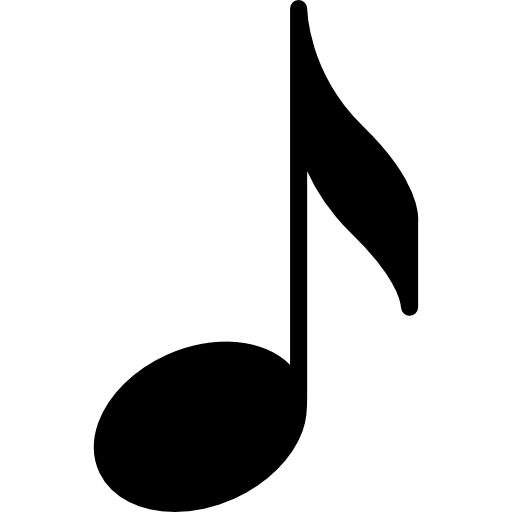
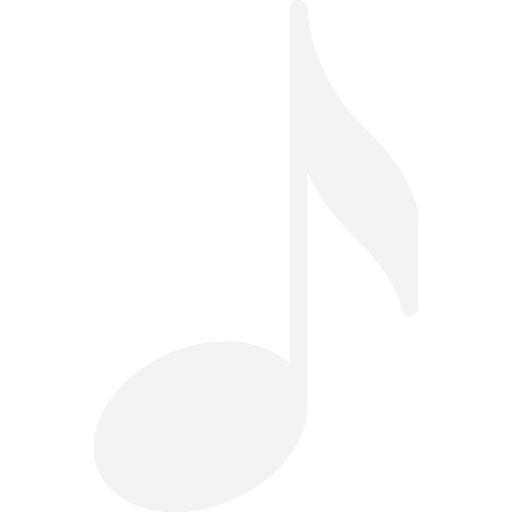
Change theme feito.

Changed region(s): [[0.1562, 0.0, 0.8438, 1.0]]

diff --git a/style.css b/style.css
@@ -1,19 +1,22 @@
 @import url('https://fonts.googleapis.com/css2?family=Pompiere&display=swap');
 
-
+:root{
+    --fonte: #fff;
+    --fundoGeral:#2F2929;
+    --fundoCabecalho:#44362D;
+    --destaque:#D16E26;
+    --fundoInput:rgba(255, 255, 255, 0.04);
+    --sustenido:#2F2929;
+    --fundoBotao:rgba(255, 255, 255, 0.04);
+    
+}
 
 body,
 html {
     margin: 0;
     padding: 0;
     height: 170vh;
-    background-color: #2F2929;
-}
-
-/* ícone de menu */
-.hamburguerList {
-    margin-left: 2vw;
-    color: #fff;
+    background-color: var(--fundoGeral);
 }
 
 .divTitulo {
@@ -25,7 +28,7 @@ html {
 .h1Nome {
     margin-top: 6vh;
     text-align: center;
-    color: #D16E26;
+    color: var(--destaque);
     font-size: 3.5rem;
     font-weight: lighter;
     font-family: 'Pompiere', cursive;
@@ -33,14 +36,12 @@ html {
 
 /* Imagem da nota musical */
 .imagemH1 {
-    filter: invert();
     width: 30px;
     height: 40px;
     transform: rotate(-25deg);
 }
 
 .imagemH1Dois {
-    filter: invert();
     width: 30px;
     height: 40px;
     transform: scaleX(-1) rotate(-25deg);
@@ -57,9 +58,9 @@ html {
     width: 3.7vw;
     height: 7.7vh;
     border-radius: 1rem;
-    border: 2px solid #D16E26;
-    color: white;
-    background-color: rgba(255, 255, 255, 0.04);
+    border: 2px solid var(--destaque);
+    color: var(--fonte);
+    background-color: var(--fundoInput);
 }
 
 
@@ -68,7 +69,7 @@ html {
     height: 5.6vh;
     width: 2.8vw;
     border-radius: 0.7rem;
-    background-color: rgba(255, 255, 255, 0.04);
+    background-color: var(--fundoInput);
 }
 
 .comparacao {
@@ -79,7 +80,7 @@ html {
     display: flex;
     align-items: center;
     font-size: 3rem;
-    color: white;
+    color: var(--fonte);
 }
 
 .conjuntoInputAcorde {
@@ -94,9 +95,9 @@ html {
     width: 14vw;
     height: 7.7vh;
     border-radius: 1em;
-    border: 2px solid #D16E26;
-    color: white;
-    background-color: rgba(255, 255, 255, 0.04);
+    border: 2px solid var(--destaque);
+    color: var(--fonte);
+    background-color: var(--fundoInput);
 
 }
 
@@ -120,12 +121,12 @@ select {
     width: 18vw;
     padding: 3vh;
     border-radius: 10rem;
-    border: 2px solid #D16E26;
+    border: 2px solid var(--destaque);
     cursor: pointer;
     font-family: 'Pompiere', cursive;
     color: #fff;
     font-size: 1.8rem;
-    background-color: rgba(255, 255, 255, 0.04);
+    background-color: var(--fundoBotao);
 
 }
 
@@ -146,15 +147,15 @@ select {
     margin-top: 18vh;
     display: flex;
     align-items: center;
-    border: 2px solid #D16E26;
-    background-color: rgba(255, 255, 255, 0.04);
+    border: 2px solid var(--destaque);
+    background-color: var(--fundoInput);
 }
 
 .nota {
     width: 9.8vw;
     height: 43vh;
     background-color: rgba(255, 255, 255, 0.7);
-    border: 1px solid #2F2929;
+    border: 1px solid var(--fundoGeral);
     border-radius: 0.7rem;
     margin-left: 1px;
     display: flex;
@@ -164,13 +165,13 @@ select {
 }
 
 option {
-    background-color: #2F2929;
+    background-color: var(--fundoGeral);
 }
 
 .sustenido {
     width: 4.65vw;
     height: 29.4vh;
-    background-color: #2F2929;
+    background-color: var(--sustenido);
     border-radius: 0 0 0.6rem 0.6rem;
     margin: 0 -1.25vw 0 -1.25vw;
     margin-bottom: 17.5vh;
@@ -194,24 +195,24 @@ option {
 }
 
 .popup {
-    background-color: rgb(58, 51, 46);
+    background-color: var(--fundoGeral);
     width: 50vw;
     height: 90vh;
     display: block;
     border-radius: 1rem;
     border: 1px solid rgba(255, 255, 255, 0.658);
-    color: white;
+    color: var(--fonte);
     animation: animacaoPopup 0.3s ease-in-out;
     position: fixed;
 }
 
 .popupFechar {
-    background-color: rgb(58, 51, 46);
+    background-color: var(--fundoGeral);
     height: 90vh;
     width: 50vw;
     border-radius: 1rem;
     border: 1px solid rgba(255, 255, 255, 0.658);
-    color: white;
+    color: var(--fonte);
     animation: animacaoPopupSair 0.3s ease-in-out;
     position: fixed;
 }
@@ -222,7 +223,7 @@ option {
     display: none;
     align-items: center;
     justify-content: center;
-    color: #D16E26;
+    color: var(--destaque);
     font-size: xx-large;
     font-family: 'Pompiere';
     font-family: cursive;
@@ -273,7 +274,7 @@ option {
     position: absolute;
     background-color: rgba(0, 0, 0, 0);
     border: 0;
-    color: white;
+    color: var(--fonte);
     right: 0.8vw;
     top: 2vh;
     font-size: large;
@@ -291,7 +292,7 @@ option {
 }
 
 span {
-    color: #D16E26;
+    color: var(--destaque);
 }
 
 /* Conjunto do Popup */
@@ -300,7 +301,7 @@ span {
     width: 100%;
     height: 42vh;
     margin-top: 40vh;
-    background-color: #44362D;
+    background-color: var(--fundoCabecalho);
     color: white;
 
 }
@@ -354,9 +355,17 @@ span {
 .cabecalho {
     display: flex;
     align-items: center;
+    justify-content: space-between;
     width: 100%;
     height: 10vh;
-    background-color: #44362D;
+    background-color: var(--fundoCabecalho);
+    color: #fff;
+}
+.ajuda {
+    margin-left: 30px;
+    margin-right: 30px;
+    font-size: 18px;
+    cursor: pointer;
 }
 
 @media only screen and (max-width: 600px) {
@@ -366,7 +375,7 @@ span {
         margin: 0;
         padding: 0;
         height: 50vh;
-        background-color: #2F2929;
+        background-color: var(--fundoGeral);
     }
 
     .cabecalho {
@@ -374,12 +383,14 @@ span {
         align-items: center;
         width: 100%;
         height: 5vh;
-        background-color: #44362D;
+        background-color: var(--fundoCabecalho);
     }
 
-    #ajuda {
-        margin-left: 10px;
+    .ajuda {
+        margin-left: 30px;
+        margin-right: 30px;
         font-size: 18px;
+        cursor: pointer;
     }
 
     .divTitulo {
@@ -394,14 +405,12 @@ span {
     }
 
     .imagemH1 {
-        filter: invert();
         width: 30px;
         height: 40px;
         transform: rotate(-25deg);
     }
 
     .imagemH1Dois {
-        filter: invert();
         width: 30px;
         height: 40px;
         transform: scaleX(-1) rotate(-25deg);

diff --git a/script.js b/script.js
@@ -360,3 +360,39 @@ function fechar(id) {
         document.getElementById(id).style.display = "none";
     }, "250");
 }
+
+function mudarTema(){
+    // --fonte: #fff;
+    // --fundoGeral:#2F2929;
+    // --fundoCabecalho:#44362D;
+    // --destaque:#D16E26;
+    // --fundoInput:rgba(255, 255, 255, 0.04);
+    // --sustenido:#2F2929;
+
+    let html = document.querySelector("html")
+    let imagem1 = document.getElementsByClassName("imagemH1")
+    let imagem2 = document.getElementsByClassName("imagemH1Dois")
+
+    
+
+    if(getComputedStyle(html).getPropertyValue("--fundoGeral")== "#2F2929"){
+        html.style.setProperty("--fundoGeral","#CEBEA0")
+        html.style.setProperty("--fundoInput","rgba(255,255,255,0.15)")
+        html.style.setProperty("--fundoBotao","#422500")
+        html.style.setProperty("--destaque","#422500")
+        html.style.setProperty("--sustenido","#422500")
+        html.style.setProperty("--fonte","#422500")
+        imagem1[0].setAttribute("src", "./imagens/notaTemaWhite.png")
+        imagem2[0].setAttribute("src", "./imagens/notaTemaWhite.png")
+    }
+    else{
+        html.style.setProperty("--fundoGeral","#2F2929")
+        html.style.setProperty("--fundoInput","rgba(255, 255, 255, 0.04)")
+        html.style.setProperty("--fundoBotao","rgba(255, 255, 255, 0.04)")
+        html.style.setProperty("--destaque","#D16E26")
+        html.style.setProperty("--sustenido","#2F2929")
+        html.style.setProperty("--fonte","#fff")
+        imagem1[0].setAttribute("src", "./imagens/nota-musical.png")
+        imagem2[0].setAttribute("src", "./imagens/nota-musical.png")
+    }
+}

diff --git a/index.html b/index.html
@@ -7,16 +7,18 @@
     <title>ChoiceChords</title>
     <link rel="icon" href="./imagens/MusicTalesCopia.png">
     <link rel="stylesheet" href="style.css">
+    <link rel="stylesheet" href="https://cdnjs.cloudflare.com/ajax/libs/font-awesome/6.4.0/css/all.min.css" integrity="sha512-iecdLmaskl7CVkqkXNQ/ZH/XLlvWZOJyj7Yy7tcenmpD1ypASozpmT/E0iPtmFIB46ZmdtAc9eNBvH0H/ZpiBw==" crossorigin="anonymous" referrerpolicy="no-referrer" />
     <link rel="stylesheet"
         href="https://fonts.googleapis.com/css2?family=Material+Symbols+Outlined:opsz,wght,FILL,GRAD@48,400,0,0" />
 </head>
 <header>
     <div class="cabecalho">
         <!--Adiciona um ícone ao canto da tela onde dará informações de sobre o site e como utlizar o website -->
-        <div class="hamburguerList">
+        
             <!--Abre o popup onde mostrará as informações sobre o site e de como utiliza-lo-->
-            <h1 id="ajuda" style="cursor: pointer;" onclick="abrirPopup()" title="Help">?</h1>
-        </div>
+            <h1 class="ajuda" style="cursor: pointer;" onclick="abrirPopup()" title="Help">?</h1>
+            <i onclick="mudarTema()" class="fa-solid fa-circle-half-stroke ajuda" title="Theme"></i>
+        
     </div>
 </header>
 
